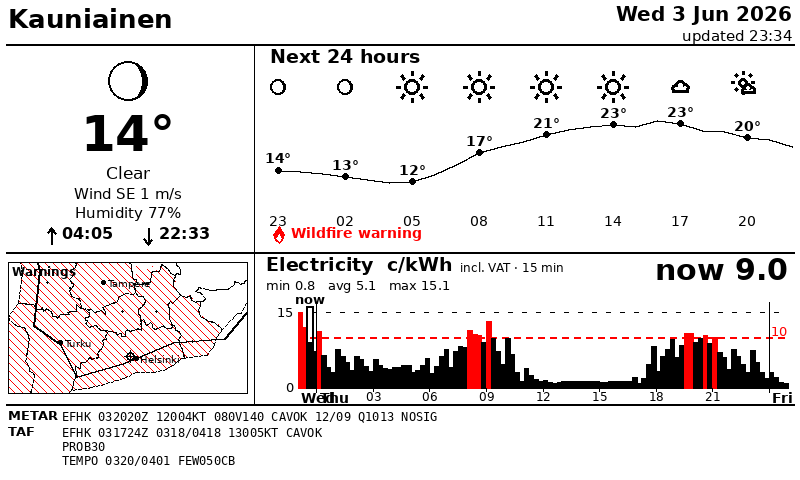
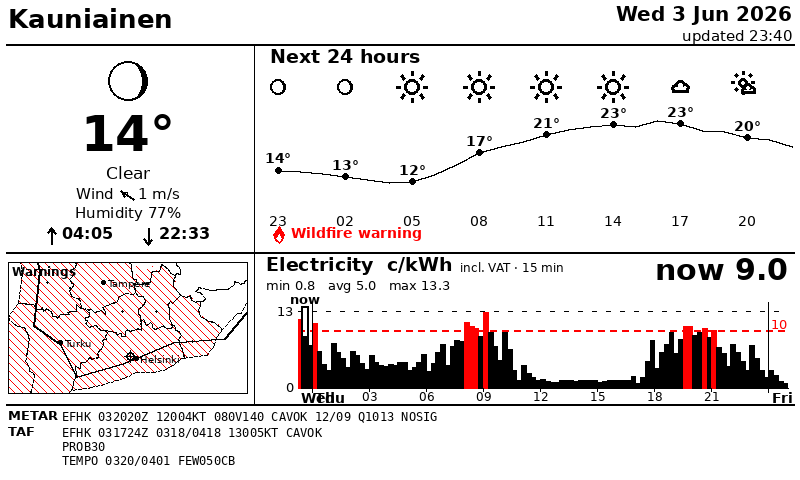
Wind: show a direction arrow instead of compass text
_wind_arrow points downwind (from_deg + 180), the yr.no/FMI convention; replaces
the "SE" style compass letters next to the wind speed.

diff --git a/epaper/render.py b/epaper/render.py
@@ -13,7 +13,6 @@ import config
 from epaper import icons
 from epaper import finmap
 from epaper.icons import BLACK, RED, WHITE
-from epaper.weather import compass
 
 W, H = config.EPD_WIDTH, config.EPD_HEIGHT
 
@@ -122,14 +121,22 @@ def _current(d, cur, sun, moon):
     text(d, (cx, 166), cur["text"], _f(17),
          fill=RED if cur.get("bad") else BLACK, anchor="ma")
 
-    # wind: direction (compass) + speed (+ gust if notably higher)
+    # wind: speed with a direction arrow (points the way the wind blows)
     wind = cur.get("wind") or 0
     gust = cur.get("gust")
-    wd = compass(cur.get("wind_dir"))
-    wtext = ("Wind %s %.0f m/s" % (wd, wind)) if wd else ("Wind %.0f m/s" % wind)
+    wind_dir = cur.get("wind_dir")
+    prefix, suffix = "Wind ", "%.0f m/s" % wind
     if gust and gust == gust and gust >= wind + 1:   # finite & meaningfully higher
-        wtext += " (%.0f)" % gust
-    text(d, (cx, 188), wtext, _f(15), anchor="ma")
+        suffix += " (%.0f)" % gust
+    fnt = _f(15)
+    pw = _bbox(d, prefix, fnt)[2]
+    sw = _bbox(d, suffix, fnt)[2]
+    aw = 20 if (wind_dir is not None and wind >= 0.5) else 0
+    sx = cx - (pw + aw + sw) / 2
+    text(d, (sx, 188), prefix, fnt, anchor="la")
+    if aw:
+        _wind_arrow(d, sx + pw + aw / 2, 196, wind_dir, 8, BLACK)
+    text(d, (sx + pw + aw, 188), suffix, fnt, anchor="la")
 
     # humidity
     hum = cur.get("humidity")
@@ -156,6 +163,22 @@ def _suntimes(d, cx, y, sr, ss):
     x += aw + srw + gap
     _arrow(d, x + 5, y + 9, up=False)
     text(d, (x + aw, y), ss, fnt, anchor="la")
+
+
+def _wind_arrow(d, cx, cy, from_deg, r, color=BLACK):
+    """Arrow centred at (cx, cy) pointing the way the wind blows (downwind =
+    from_deg + 180). Compass bearing: 0=N (up), 90=E (right)."""
+    th = math.radians((from_deg + 180) % 360)
+    dx, dy = math.sin(th), -math.cos(th)          # unit vector toward the tip
+    fx, fy = cx + dx * r, cy + dy * r             # tip
+    bx, by = cx - dx * r, cy - dy * r             # tail
+    d.line([bx, by, fx, fy], fill=color, width=2)
+    head = r * 0.8
+    for ang in (28, -28):                          # two arrowhead wings
+        a = math.radians(ang)
+        rx = (-dx) * math.cos(a) - (-dy) * math.sin(a)
+        ry = (-dx) * math.sin(a) + (-dy) * math.cos(a)
+        d.line([fx, fy, fx + rx * head, fy + ry * head], fill=color, width=2)
 
 
 def _arrow(d, x, y, up, color=BLACK):